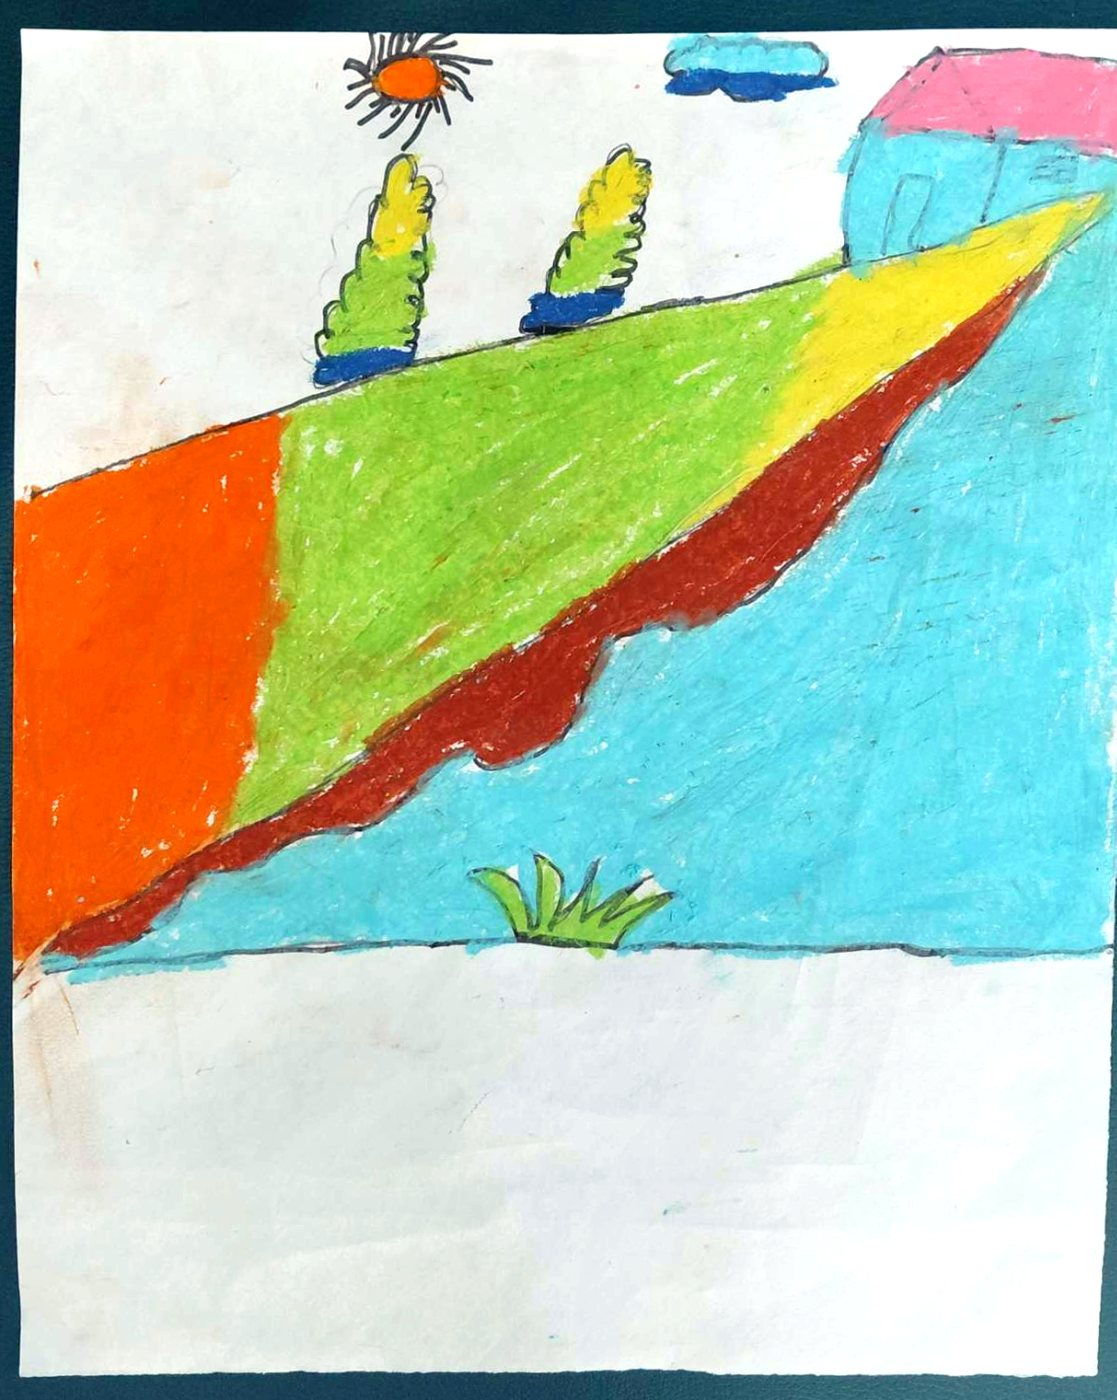
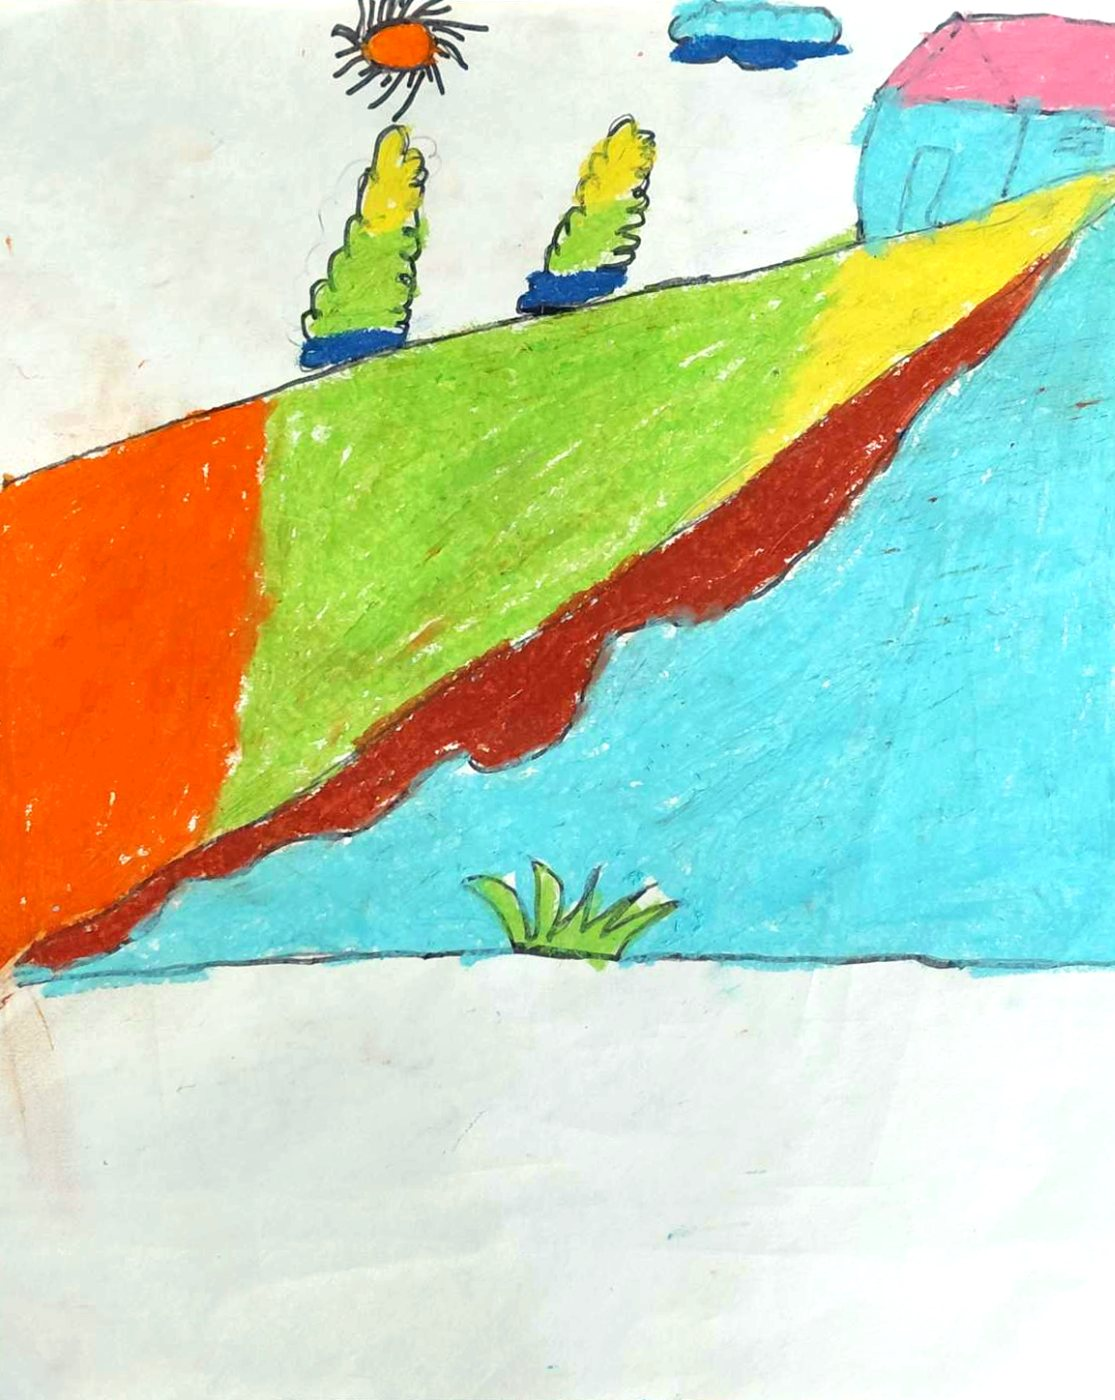
Draft: group A scan-style crops and night-sky scan (not on the live site)
Claude-Session: https://claude.ai/code/session_01AeCNQon7GPnV1KXKHfzX4a

diff --git a/FEATURES.md b/FEATURES.md
@@ -70,6 +70,8 @@ and stops with `FAIL` if anything has gone missing. Items without ✓ need a qui
 
 ## 2026-11-11
 
+- Drawings: group A (a1–a6) redone as flat scan-style crops: straightened to the paper edges, seat background removed, paper whitened, colours lifted slightly.
+- Drawings: a7 (the night-sky drawing, group A) replaced with a clean flat scan.
 - Drawings: c3 (the swirl drawing, group C) replaced with a clean flat scan, upright.
 
 ## 2026-11-10

diff --git a/CHANGELOG.md b/CHANGELOG.md
@@ -7,6 +7,8 @@ To bring back an older version of the page: `git checkout <id> -- index.html`, t
 
 ## 2026-11-11
 
+- Drawings: group A (a1–a6) redone as flat scan-style crops: straightened to the paper edges, seat background removed, paper whitened, colours lifted slightly.
+- Drawings: a7 (the night-sky drawing, group A) replaced with a clean flat scan.
 - Drawings: c3 (the swirl drawing, group C) replaced with a clean flat scan, upright.
 
 ## 2026-11-10
